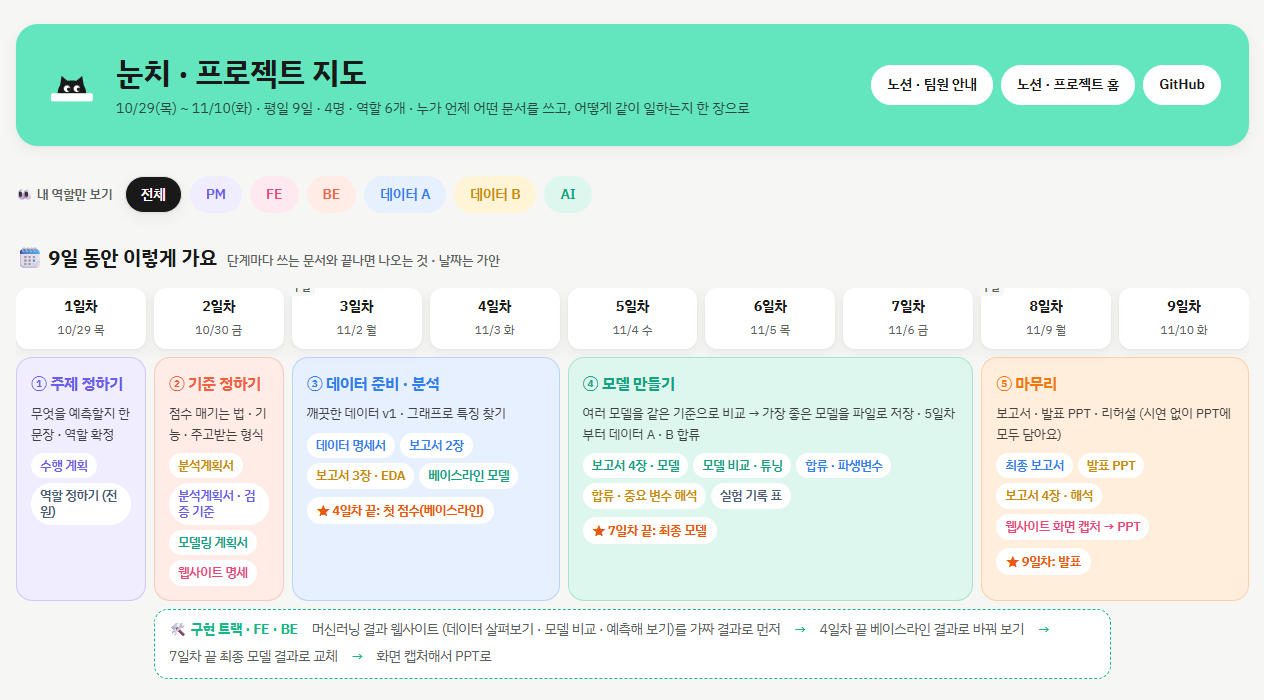
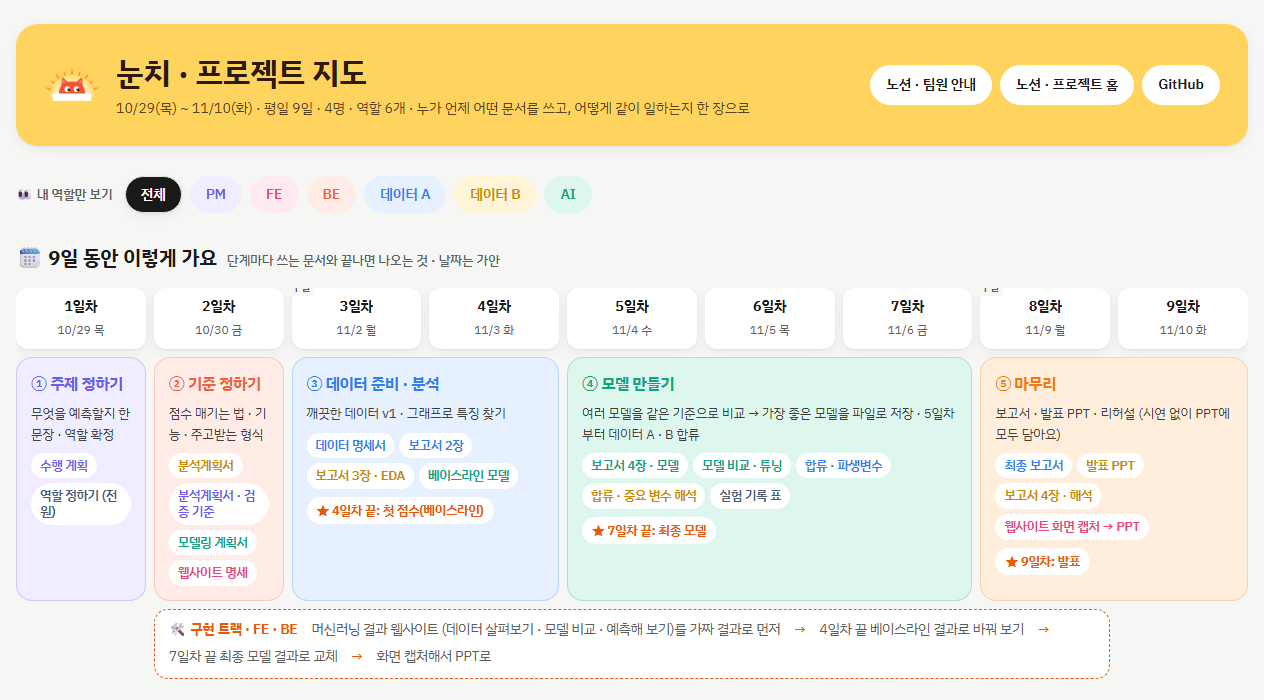
docs: 태양 고양이 로고·배너로 교체하고 주제(햇빛 눈부심 사고 예측) 반영

diff --git a/profile/README.md b/profile/README.md
@@ -4,11 +4,11 @@
 
 <br/>
 
-![기간](https://img.shields.io/badge/%EA%B8%B0%EA%B0%84-2026.10.29%20~%2011.10-555555?style=flat-square) ![iM Digital Banker Academy](https://img.shields.io/badge/iM%20Digital%20Banker%20Academy-%EB%A8%B8%EC%8B%A0%EB%9F%AC%EB%8B%9D%20%ED%94%84%EB%A1%9C%EC%A0%9D%ED%8A%B8-1E3A8A?style=flat-square) ![상태](https://img.shields.io/badge/%EC%83%81%ED%83%9C-%EC%84%B8%ED%8C%85%20%EC%A4%91-14B8A6?style=flat-square)
+![기간](https://img.shields.io/badge/%EA%B8%B0%EA%B0%84-2026.10.29%20~%2011.10-555555?style=flat-square) ![iM Digital Banker Academy](https://img.shields.io/badge/iM%20Digital%20Banker%20Academy-%EB%A8%B8%EC%8B%A0%EB%9F%AC%EB%8B%9D%20%ED%94%84%EB%A1%9C%EC%A0%9D%ED%8A%B8-1E3A8A?style=flat-square) ![상태](https://img.shields.io/badge/%EC%83%81%ED%83%9C-%EA%B8%B0%ED%9A%8D%20%EC%A4%91-F2522E?style=flat-square)
 
 ![Python](https://img.shields.io/badge/Python-3776AB?style=flat-square&logo=python&logoColor=white) ![pandas](https://img.shields.io/badge/pandas-150458?style=flat-square&logo=pandas&logoColor=white) ![scikit--learn](https://img.shields.io/badge/scikit--learn-F7931E?style=flat-square&logo=scikitlearn&logoColor=white) ![LightGBM](https://img.shields.io/badge/LightGBM-2E7D32?style=flat-square) ![XGBoost](https://img.shields.io/badge/XGBoost-EC6B23?style=flat-square) ![CatBoost](https://img.shields.io/badge/CatBoost-FFCC00?style=flat-square) ![Optuna](https://img.shields.io/badge/Optuna-2C5BB4?style=flat-square) ![FastAPI](https://img.shields.io/badge/FastAPI-009688?style=flat-square&logo=fastapi&logoColor=white)
 
-[![Notion](https://img.shields.io/badge/Notion-%ED%94%84%EB%A1%9C%EC%A0%9D%ED%8A%B8%20%ED%99%88-000000?style=flat-square&logo=notion&logoColor=white)](https://app.notion.com/p/40554fa7e143815680c0cfb0ff414d78) [![Slack](https://img.shields.io/badge/Slack-%EB%88%88%EC%B9%98-4A154B?style=flat-square&logo=slack&logoColor=white)](https://w1793232260-5vc380374.slack.com) [![프로젝트 지도](https://img.shields.io/badge/%ED%94%84%EB%A1%9C%EC%A0%9D%ED%8A%B8%20%EC%A7%80%EB%8F%84-%ED%95%9C%20%EC%9E%A5%EC%9C%BC%EB%A1%9C%20%EB%B3%B4%EA%B8%B0-63E6BE?style=flat-square)](https://nunchi-ml.github.io/)
+[![Notion](https://img.shields.io/badge/Notion-%ED%94%84%EB%A1%9C%EC%A0%9D%ED%8A%B8%20%ED%99%88-000000?style=flat-square&logo=notion&logoColor=white)](https://app.notion.com/p/40554fa7e143815680c0cfb0ff414d78) [![Slack](https://img.shields.io/badge/Slack-%EB%88%88%EC%B9%98-4A154B?style=flat-square&logo=slack&logoColor=white)](https://w1793232260-5vc380374.slack.com) [![프로젝트 지도](https://img.shields.io/badge/%ED%94%84%EB%A1%9C%EC%A0%9D%ED%8A%B8%20%EC%A7%80%EB%8F%84-%ED%95%9C%20%EC%9E%A5%EC%9C%BC%EB%A1%9C%20%EB%B3%B4%EA%B8%B0-FFD45E?style=flat-square)](https://nunchi-ml.github.io/)
 
 </div>
 
@@ -17,14 +17,15 @@
 ## 👀 Nunchi(눈치)는
 
 **눈치**는 말하지 않아도 상황을 먼저 알아채는 감각입니다.
-저희는 데이터에서 **다음에 일어날 일의 신호를 먼저 읽어 내는 모델**을 만들고, 그 모델을 직접 써 볼 수 있는 화면까지 만듭니다.
+저희는 해가 운전자의 눈을 가리기 전에 **어디서, 언제 눈부심 사고가 나기 쉬운지 먼저 알아채는 모델**을 만들고, 그 결과를 운전석에 앉은 듯 체험하는 시뮬레이터까지 만듭니다.
 
 ## 🎯 프로젝트
 
 | | |
 |---|---|
-| 📌 **주제** | 1일차(10/29)에 확정합니다 |
-| 🔮 **만드는 것** | 예측 모델 + 머신러닝 결과를 보여주는 웹사이트 (데이터 살펴보기 · 모델 비교 · 예측해 보기) |
+| 📌 **주제** | ☀ 햇빛 눈부심 사고 예측 — 해가 낮게 떠 운전자 정면을 비추는 아침·저녁, 터널 출구의 백색 현상 |
+| 🛣 **시범 구간** | 대구 달구벌대로(동서) · 신천대로(남북) |
+| 🔮 **만드는 것** | 모델 ① 도로 구간별 사고 예측 · 모델 ② 전방 화면 눈부심 분류 + 운전석 햇빛 시뮬레이터 |
 | 🎤 **발표** | 시연 없이 PPT에 모두 담아요 (웹사이트는 화면 캡처로) |
 | 📏 **원칙** | 모든 실험은 같은 검증 기준 · 같은 데이터셋 버전으로 잽니다 |
 
@@ -40,7 +41,7 @@
 |:---:|---|---|---|
 | 🧪 | [**Nunchi-ML_AI**](https://github.com/Nunchi-ML/Nunchi-ML_AI) | 데이터 정제 · EDA · 모델 실험 · 최종 파이프라인 | 데이터 A · B, AI |
 | ⚙ | [**Nunchi-ML_BE**](https://github.com/Nunchi-ML/Nunchi-ML_BE) | 모델 결과 · 예측 API | BE |
-| 🎨 | [**Nunchi-ML_FE**](https://github.com/Nunchi-ML/Nunchi-ML_FE) | 머신러닝 결과 웹사이트 | FE |
+| 🎨 | [**Nunchi-ML_FE**](https://github.com/Nunchi-ML/Nunchi-ML_FE) | 운전석 햇빛 시뮬레이터 · 머신러닝 결과 화면 | FE |
 
 ## 👥 팀 「눈치」
 
